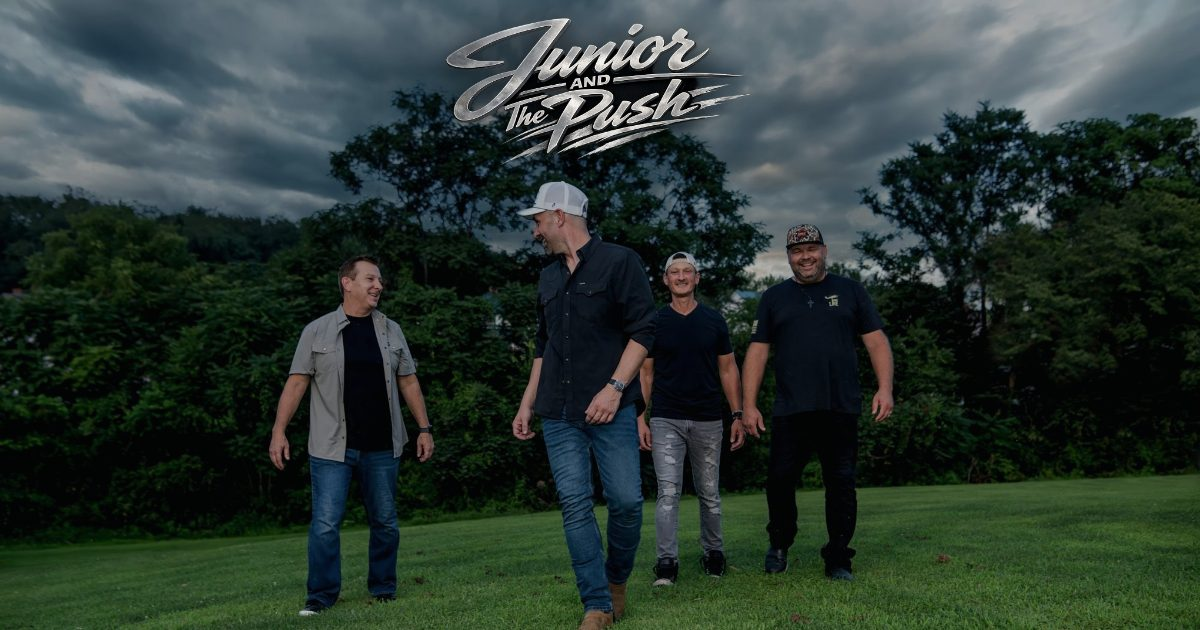
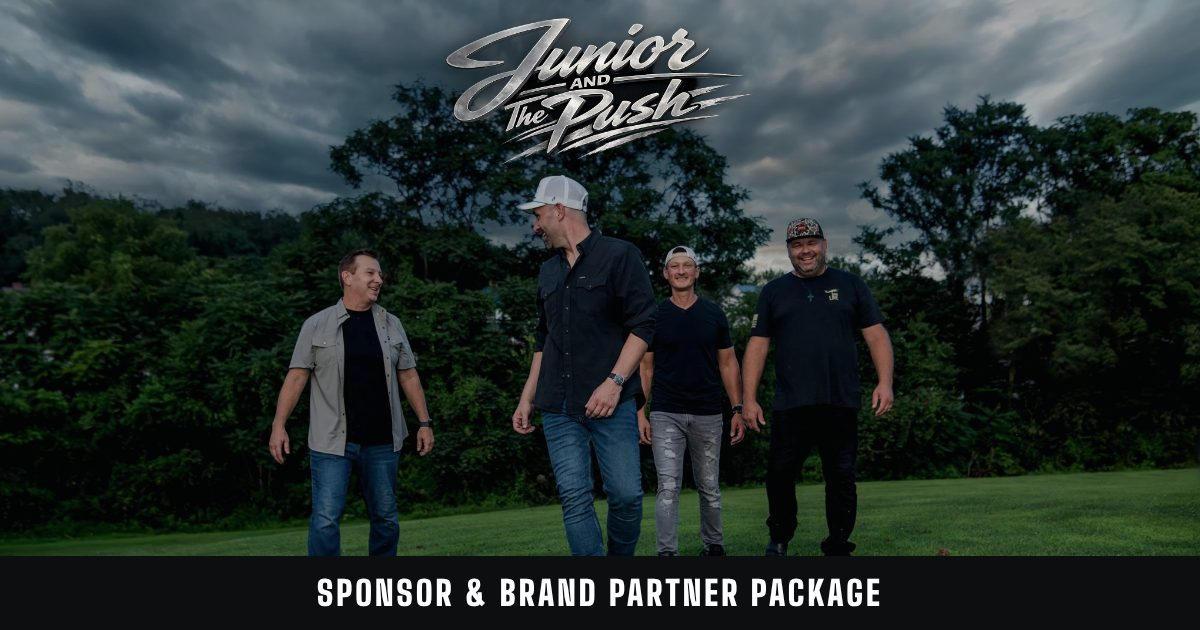
Share image: add Sponsor Package title
Claude-Session: https://claude.ai/code/session_015uHhmFG3rn1u8dJPaof6Pi

diff --git a/sponsor/index.html b/sponsor/index.html
@@ -10,14 +10,14 @@
 <meta property="og:title" content="Sponsor &amp; Brand Partner Package">
 <meta property="og:description" content="Gear we play, brands we wear, and local partners. See what partners get with Junior and The Push.">
 <meta property="og:url" content="https://sponsor.juniorandthepush.com/">
-<meta property="og:image" content="https://sponsor.juniorandthepush.com/share.jpg?v=2">
+<meta property="og:image" content="https://sponsor.juniorandthepush.com/share.jpg?v=3">
 <meta property="og:image:width" content="1200">
 <meta property="og:image:height" content="630">
 <meta property="og:image:alt" content="Junior and The Push Sponsor and Brand Partner Package">
 <meta name="twitter:card" content="summary_large_image">
 <meta name="twitter:title" content="Sponsor &amp; Brand Partner Package">
 <meta name="twitter:description" content="Gear we play, brands we wear, and local partners. See what partners get with Junior and The Push.">
-<meta name="twitter:image" content="https://sponsor.juniorandthepush.com/share.jpg?v=2">
+<meta name="twitter:image" content="https://sponsor.juniorandthepush.com/share.jpg?v=3">
 <meta name="theme-color" content="#0d0e10">
 <link rel="icon" type="image/png" href="/favicon.png">
 <link rel="apple-touch-icon" href="/icon.png">
